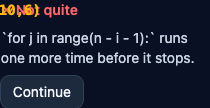
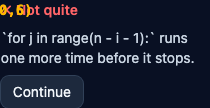
Add Evidence Loop section in README

Changed region(s): [[0.0, 0.0278, 0.2, 0.1667]]

diff --git a/README.md b/README.md
@@ -100,3 +100,11 @@ Measured across three trials per state, each cold run in a fresh browser context
 a reload within it. Warm results landed within 12 ms of each other — a CPU-bound cost, with no
 network in it. Full method and the two measurement traps involved are in
 [`docs/VERIFICATION.md`](docs/VERIFICATION.md).
+
+## How this project was reviewed
+
+v1 was built with an AI coding agent doing the implementation while I reviewed plans, checkpoints,
+and running code without reading most of the code itself. After signing off on v1, I sat down with
+the agent to work out what that review process actually was, where it broke down (mostly: approving
+things by reflex rather than by evidence), and what a better version looks like for the next
+project. That write-up is here: **[The Evidence Loop](https://claude.ai/code/artifact/cce2871b-cc2f-4f77-b4f1-0697305b545d)**.
